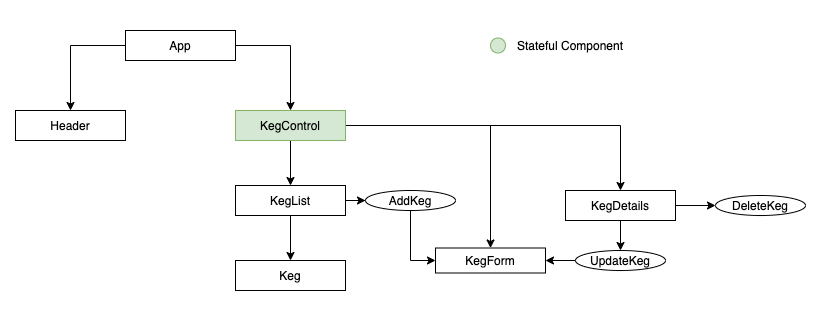
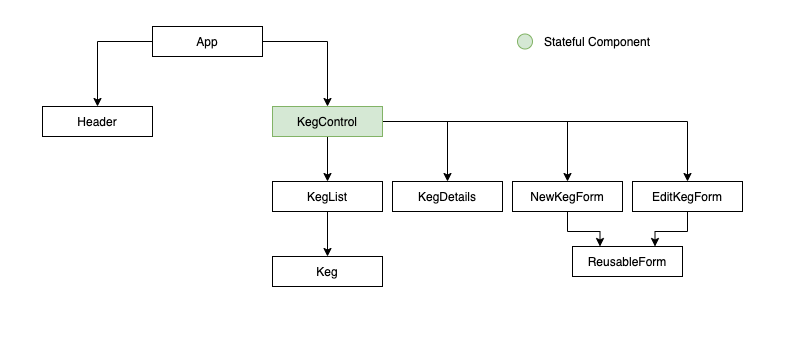
update component tree and restock/buy

diff --git a/src/index.js b/src/index.js
@@ -3,7 +3,6 @@ import ReactDOM from 'react-dom';
 import 'bootstrap/dist/css/bootstrap.css' 
 import './index.css';
 import App from './components/App';
-import reportWebVitals from './reportWebVitals';
 
 ReactDOM.render(
   <React.StrictMode>
@@ -11,8 +10,3 @@ ReactDOM.render(
   </React.StrictMode>,
   document.getElementById('root')
 );
-
-// If you want to start measuring performance in your app, pass a function
-// to log results (for example: reportWebVitals(console.log))
-// or send to an analytics endpoint. Learn more: https://bit.ly/CRA-vitals
-reportWebVitals();

diff --git a/src/components/KegControl.js b/src/components/KegControl.js
@@ -50,7 +50,7 @@ class KegControl extends React.Component {
     }))
     this.setState({
       masterKegList: newMasterKegList,
-      selectedKeg: null
+      selectedKeg: newMasterKegList.filter(keg => keg.id === id)[0]
     });
   }
 
@@ -61,7 +61,7 @@ class KegControl extends React.Component {
     }))
     this.setState({
       masterKegList: newMasterKegList,
-      selectedKeg: null
+      selectedKeg: newMasterKegList.filter(keg => keg.id === id)[0]
     });
   }
 

diff --git a/README.md b/README.md
@@ -64,7 +64,7 @@ This project uses the following technologies:
 
 | Date | Error | Handled | Solution |
 | :------------- | :------------- | :------------- | :------------- |
-| 02.12.2021 | cannot read propert 'id' of undefined | ❌ |  |
+| 02.12.2021 | cannot read propert 'id' of undefined | ✅ | typo in KegControl |
 
 -------------------
 
